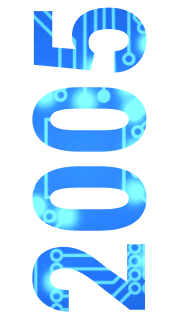
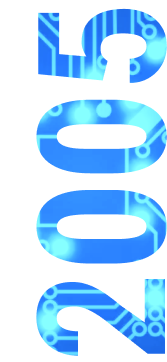
add adaptive advantages

diff --git a/index.html b/index.html
@@ -51,7 +51,7 @@
                         </ul>
                     </div>                    
                     <ul class="header-actions">
-                        <li class="header-actions__item">                                                                                
+                        <li class="header-actions__item">                                                                       
                             <a class="header-actions__link" href="mailto:info@sd.ru">
                                 <svg class="header-actions__link-mail" width="19" height="14" viewBox="0 0 19 14" fill="#00B2FF" xmlns="http://www.w3.org/2000/svg">
                                     <path d="M16.6805 0H2.3234C1.0418 0 0 1.0087 0 2.24959V11.7504C0 12.9913 1.0418 14 2.3234 14H16.6766C17.9582 14 19 12.9913 19 11.7504V2.2534C19.0039 1.01251 17.9621 0 16.6805 0ZM17.9425 11.7504C17.9425 12.4241 17.3764 12.9723 16.6805 12.9723H2.3234C1.62756 12.9723 1.06145 12.4241 1.06145 11.7504V2.2534C1.06145 1.57966 1.62756 1.03154 2.3234 1.03154H16.6766C17.3724 1.03154 17.9385 1.57966 17.9385 2.2534V11.7504H17.9425Z" fill="#00B2FF"/>
@@ -107,8 +107,7 @@
                 </picture>                                                
             </div>                        
             <a class="header-scroll" href="#">Скролл вниз</a>                         
-        </div>
-                
+        </div>                
     </header>
     <main class="content">
         <div class="advantages-inner">
@@ -166,11 +165,12 @@
             <section class="about">
                 <div class="container">                    
                     <div class="about__description">
-                        <img class="about__description-img" src="./images/2005.png" alt="" width="170" height="340">
+                        <img class="about__description-img" src="./images/2005.png" alt="" width="165" height="362">
                         <div class="about__description-inner">
                             <h2 class="about__description-title title">О компании</h2>
                             <p class="about__description-text">Мы поставляем электронные комплектующие, производим печатные платы и предоставляем мировые технологии с 1997 года. Выполняем срочные заказы и пилотные образцы до 10 дней.</p>
                             <p class="about__description-text">Наши поставщики - мировые производители электронных компонентов: OSRAM, CREE, HOLGLITRONIC, REFOND. Печатные платы и комплектующие Service Devices применяются на предприятиях Российских Железных Дорог (РЖД), РоссАвтоПрома (ВАЗ, АвтоГАЗ), МинАтома, СпецМедТехники. Среди наших клиентов крупнейшие Производители светотехники России.</p>
+                            <p class="about__description-text--tablet">Наши поставщики - мировые производители электронных компонентов: OSRAM, CREE, HOLGLITRONIC, REFOND. Печатные платы и комплектующие Service Devices применяются на предприятиях Российских Железных Дорог.</p>
                             <a class="about__description-link" href="#">Подробнее</a>
                         </div>   
                     </div>

diff --git a/css/blocks/advantages.css b/css/blocks/advantages.css
@@ -9,6 +9,10 @@
     padding-block: 110px;
 }
 
+.about__description-text--tablet {
+    display: none;
+}
+
 .advantages-cards {
     display: grid;
     grid-template-columns: repeat(2, 1fr);
@@ -42,18 +46,13 @@
     color: var(--color-blue);
 }
 
-.about__description-img {
-    width: 170px;
-    height: 340px;    
-}
-
 .about {
     margin-bottom: 100px;
 }
 
 .about__description {
     display: flex;
-    column-gap: 10px;
+    column-gap: 40px;
     align-items: center;
 }
 
@@ -98,4 +97,100 @@
     border-color: var(--color-light);
     color: var(--color-light);
     background-color: var(--color-blue);    
+}
+
+
+
+
+@media (max-width: 1190px) {
+    .advantages-inner {          
+        background-image: url('../../images/bg-polygon/polygon-center.svg');
+        background-position: center right -250px;
+        background-repeat: no-repeat;
+    }
+    .advantages {
+        padding-block: 55px;
+    }
+    .about {
+        margin-bottom: 83px;
+    }       
+}
+
+@media (max-width: 1080px) {
+    .advantages-cards__card {        
+        row-gap: 15px;        
+        border-left: 2px solid var(--color-blue);        
+    }
+    .about__description-title {
+        font-size: 32px;
+        margin-bottom: 23px;    
+    }
+    .about__description-text {
+        margin-bottom: 20px;
+    }
+    .about__description-text:nth-child(3) {
+        margin-bottom: 30px;
+    }       
+}
+@media (max-width: 900px) {
+    .advantages-cards__card {        
+        row-gap: 15px;
+        padding: 24px 15px 22px 25px;        
+    }    
+    .about__description-text:nth-child(3) {
+        display: none;
+    }
+    .about__description-text--tablet {
+        display: block;
+        margin-bottom: 34px;
+    }    
+}
+@media (max-width: 765px) {
+    .container {
+        padding-inline: 15px;
+    }
+    .advantages {
+        padding-block: 37px;
+    }
+    .advantages-cards {
+        gap: 20px;
+    }
+    .advantages-cards__card {        
+        row-gap: 10px;
+        padding-right: 10px;        
+    }    
+    .about__description-text:nth-child(3) {
+        display: none;
+    }
+    .about__description-text--tablet {
+        display: block;
+        margin-bottom: 34px;
+    }
+    .advantages-cards__card svg {
+        width: 31px;
+        height: auto;
+    }    
+}
+@media (max-width: 685px) {    
+    .advantages-inner {          
+        background-image: url('../../images/bg-polygon/polygon-center.svg');
+        background-position: bottom right -250px;
+        background-repeat: no-repeat;
+    }
+    .advantages-cards {        
+        grid-template-columns: 1fr;        
+    }
+    .about__description-img {
+        display: none;
+    }
+    .advantages-cards__card-title {
+        font-size: 20px;        
+    }
+    .about__description {
+        padding-top: 25px;
+        padding-bottom: 65px;
+    }
+    .about__description-title {
+        font-size: 28px;
+    }
 }

diff --git a/css/variables.css b/css/variables.css
@@ -13,7 +13,7 @@
     --font-family-accent: 'Roboto Condensed', sans-serif;
 
     --container-width: 1170px;
-    --container-padding-x: 10px;
+    --container-padding-x: 25px;
 
     --transition-duration: 0.3s;    
 }
